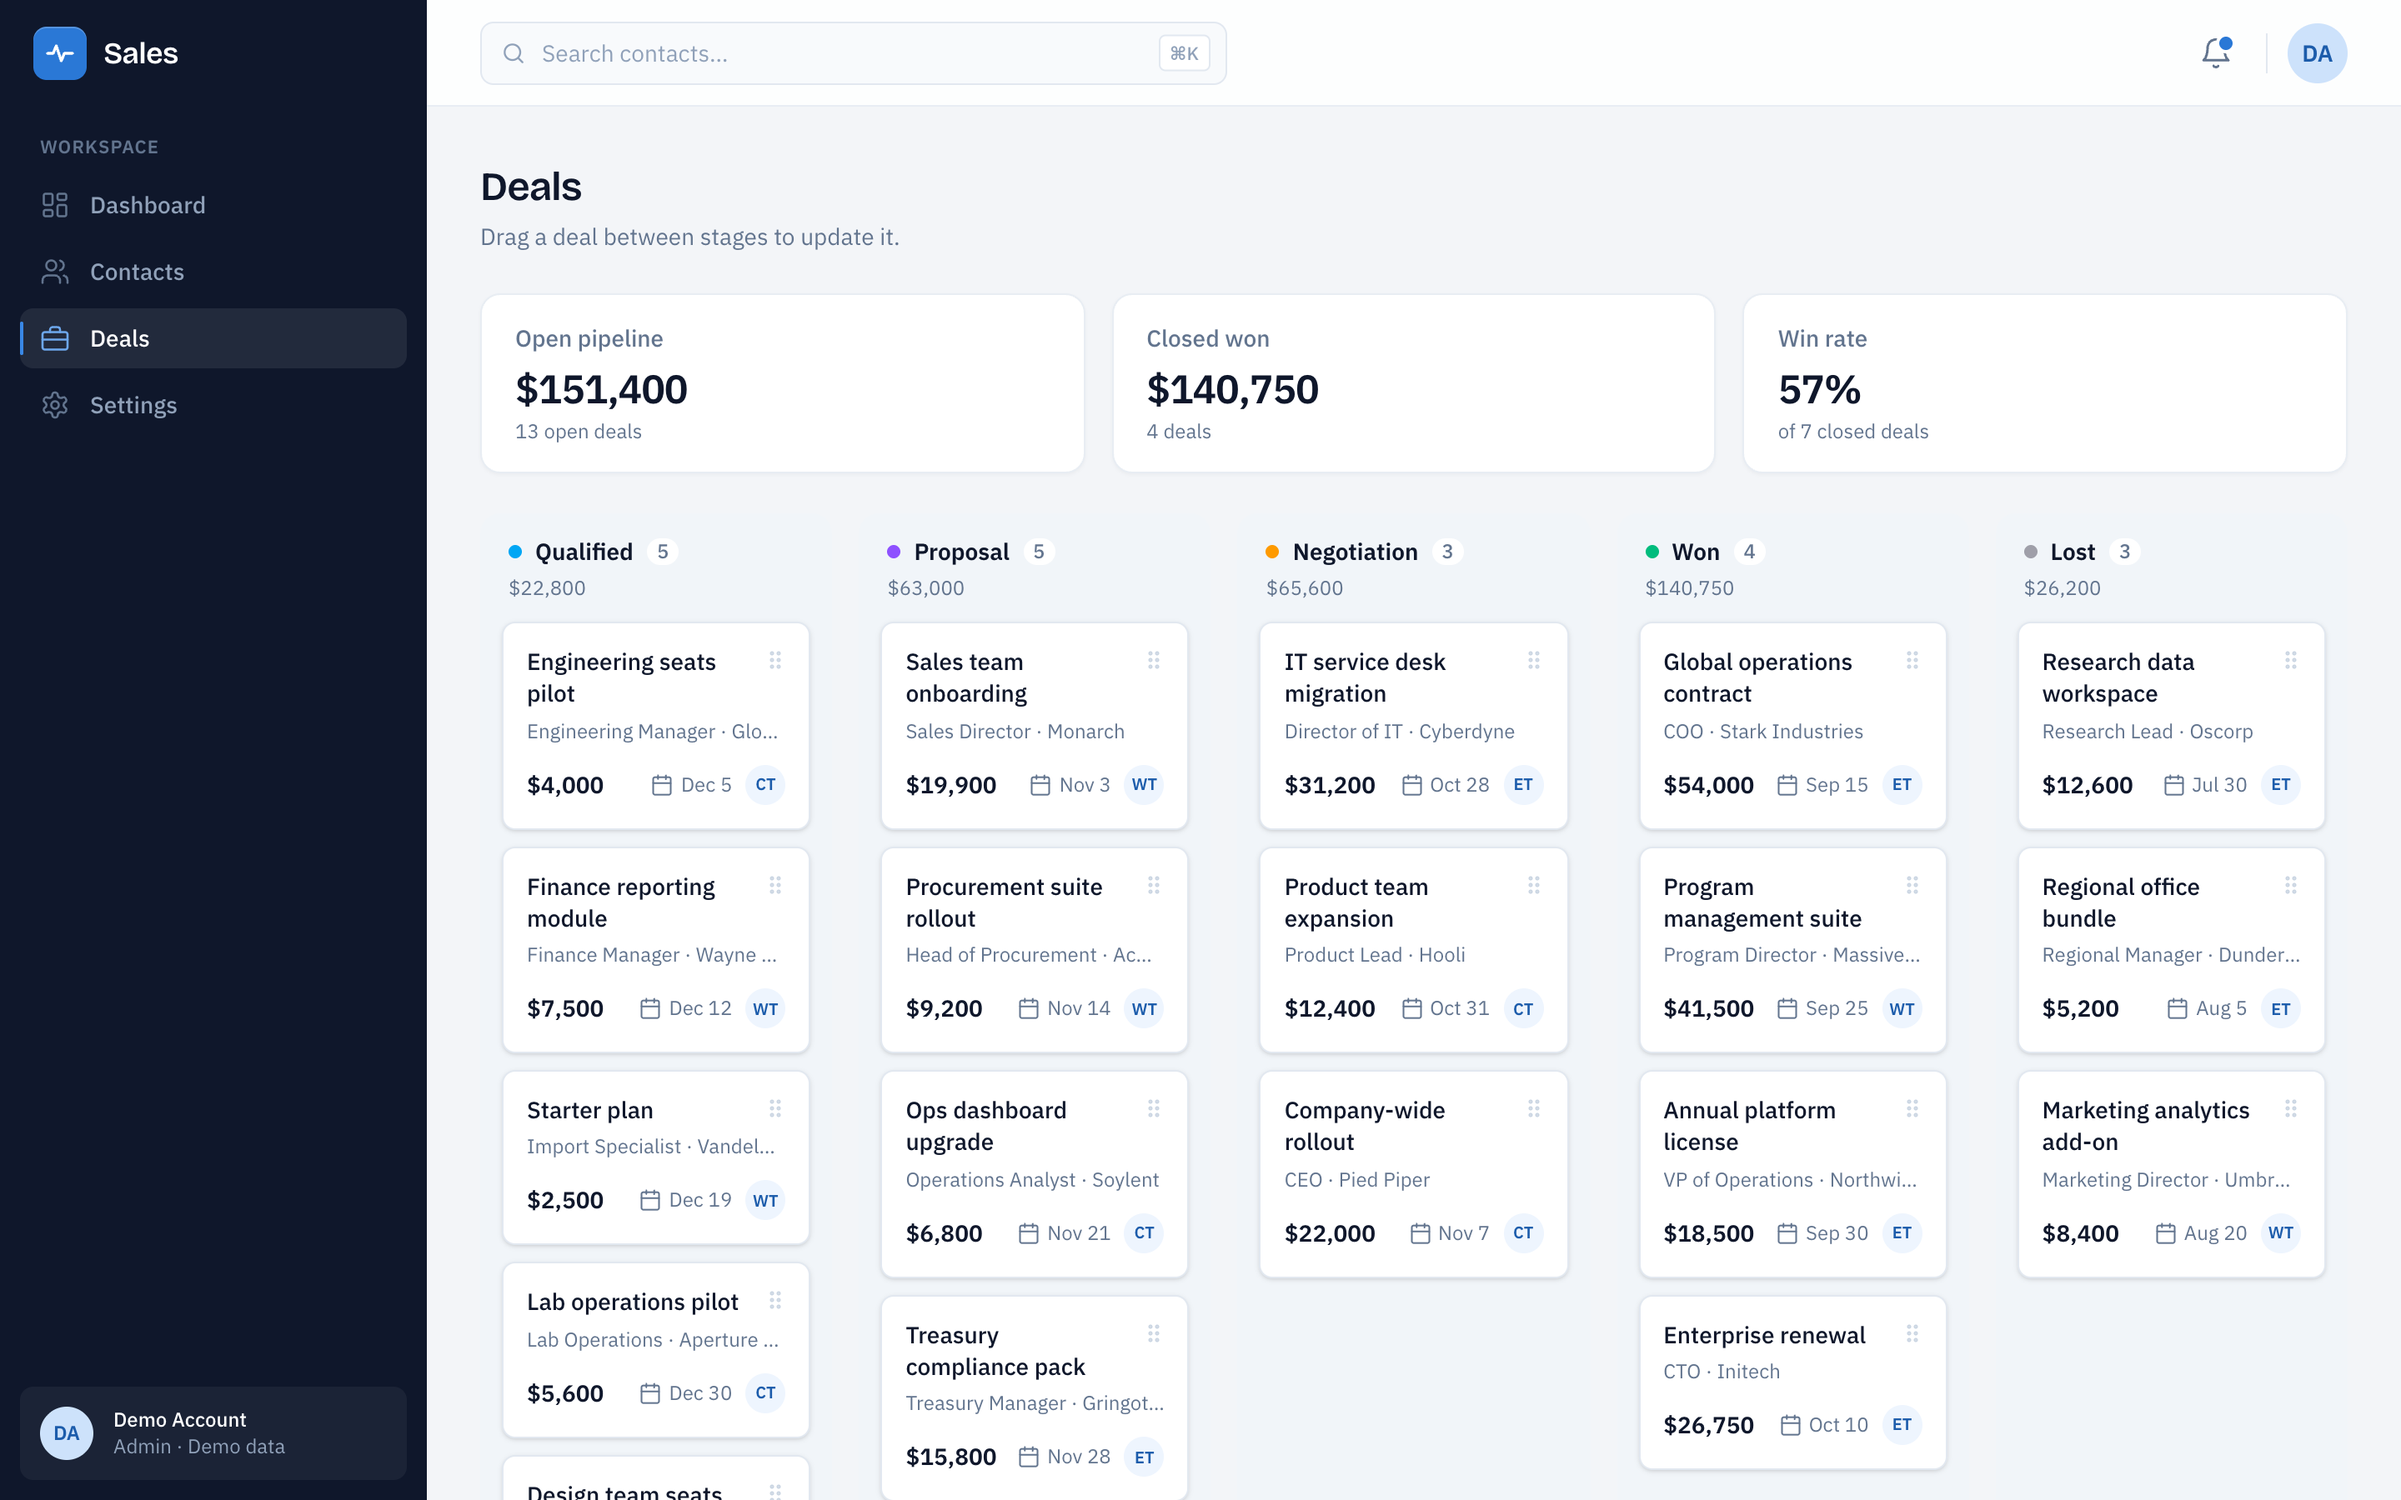
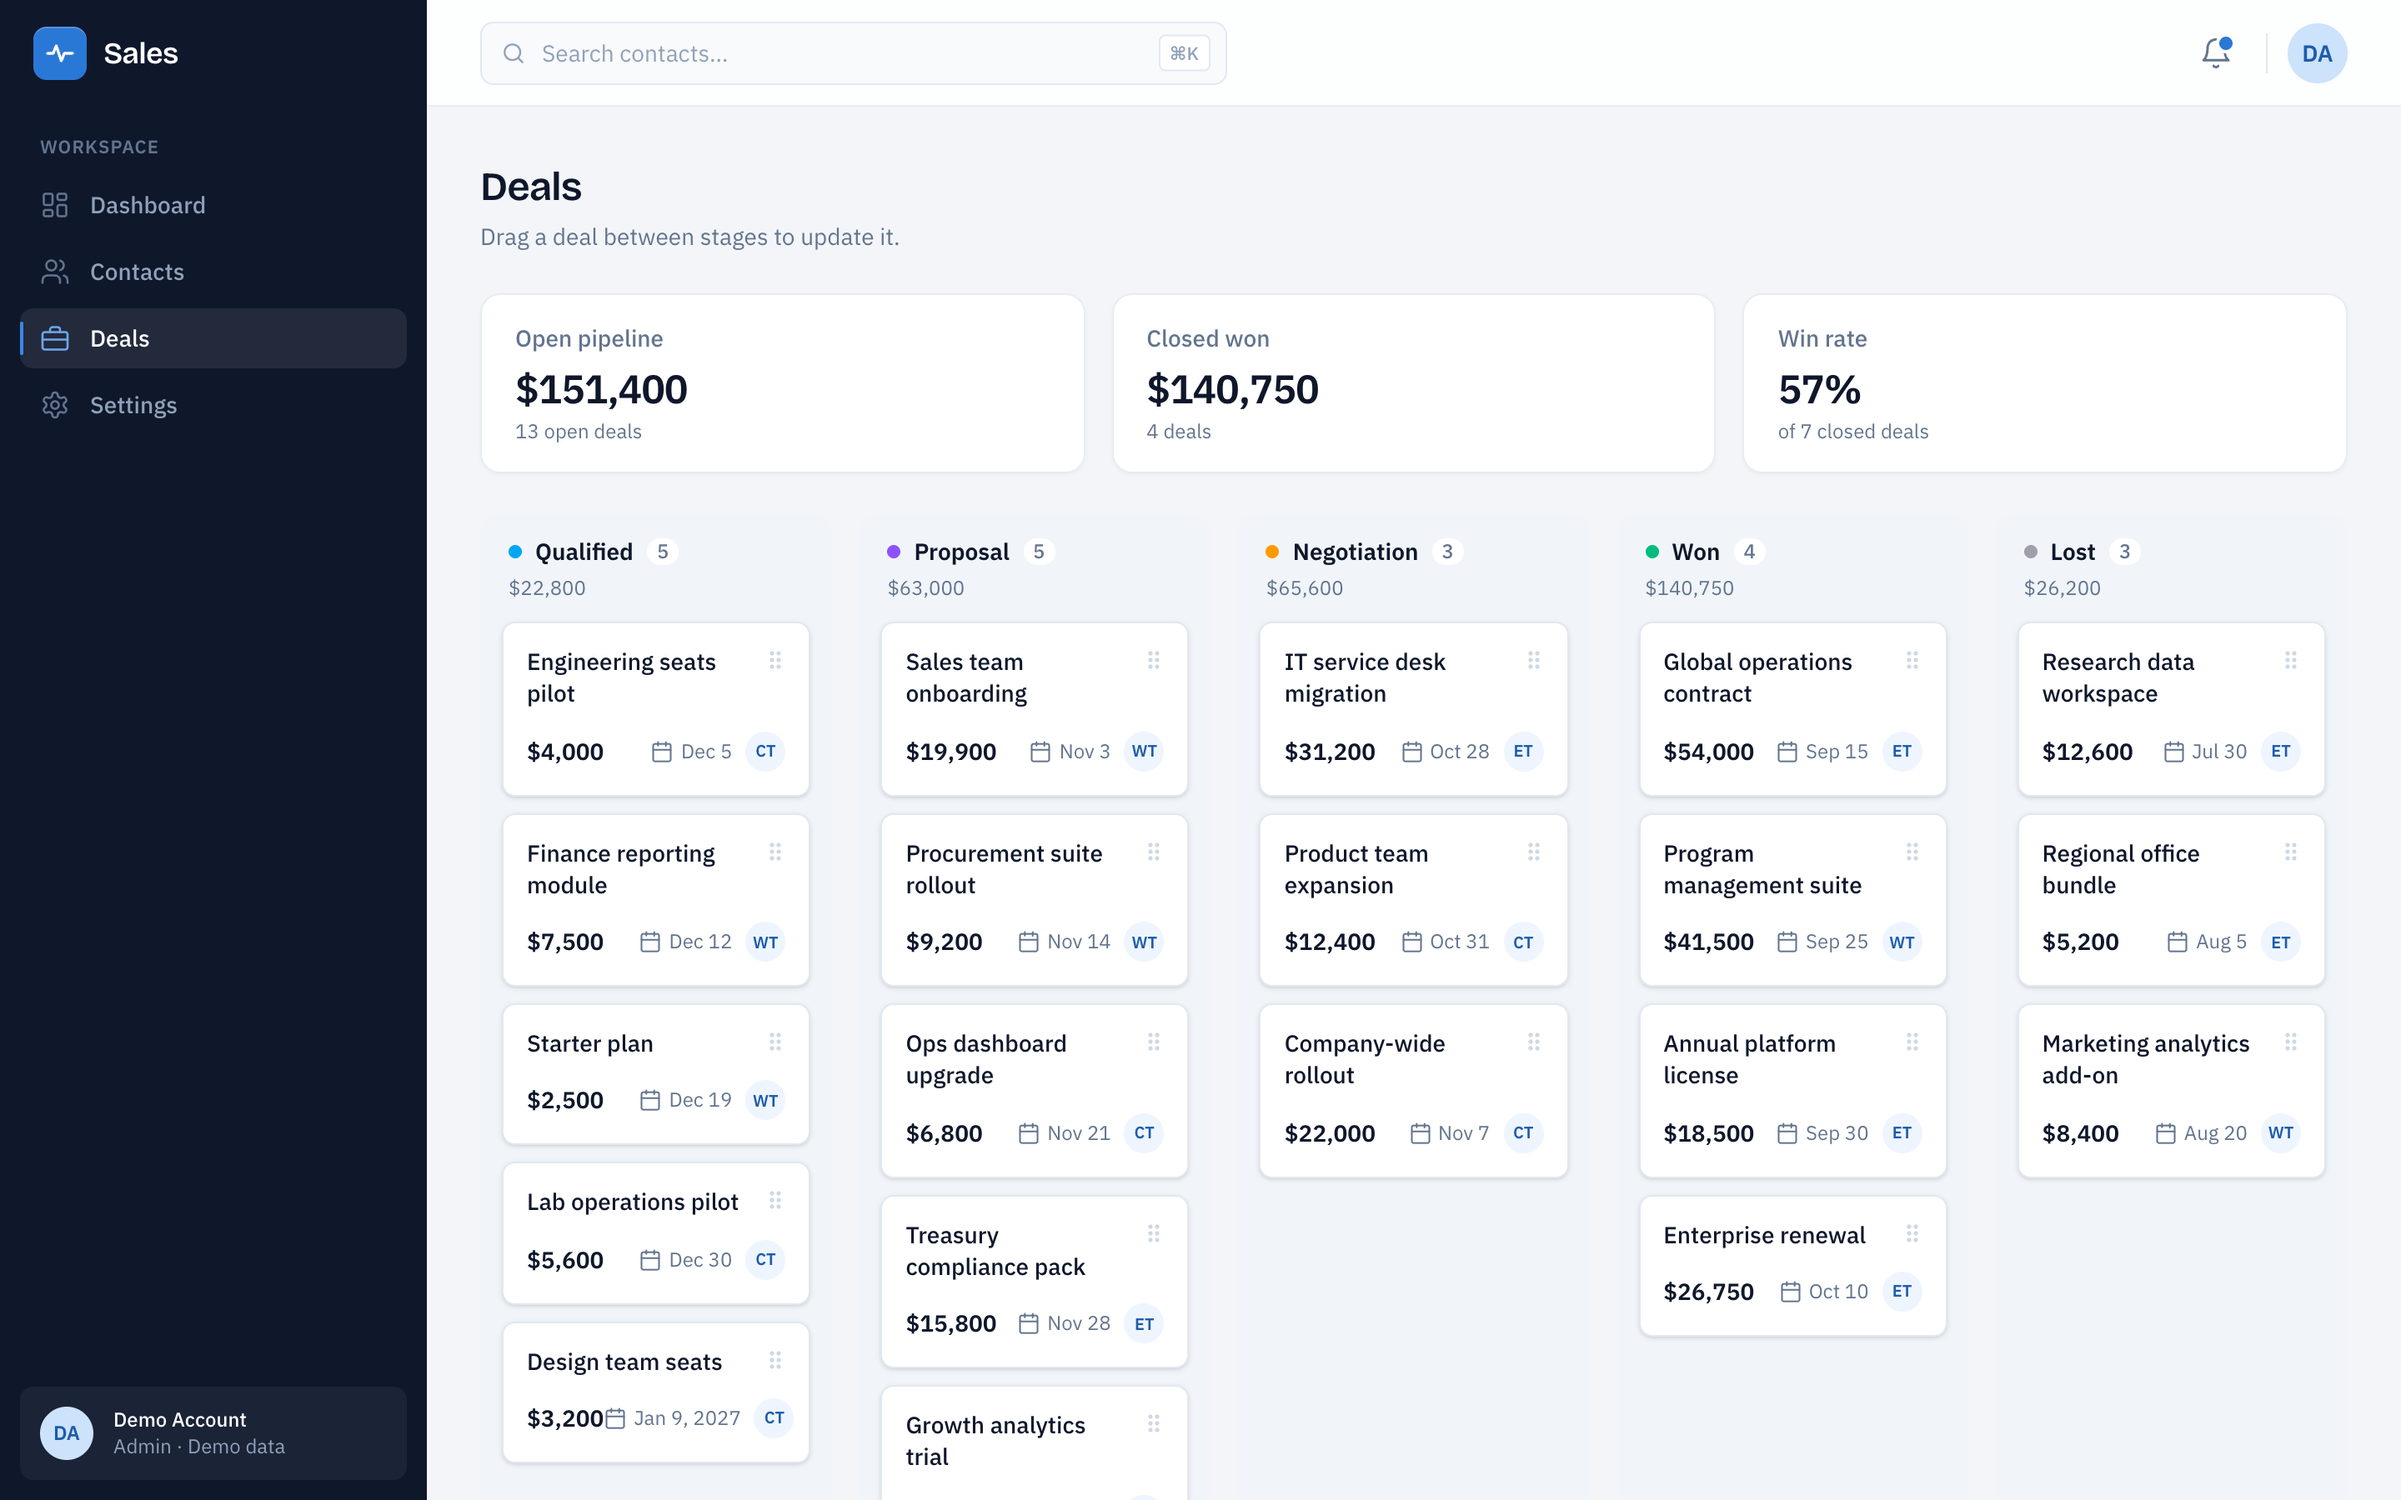
chore: simplify demo data and refresh screenshots

diff --git a/lib/mock-data.ts b/lib/mock-data.ts
@@ -30,10 +30,10 @@ export const CONTACTS: Contact[] = [
   {
     id: "c_01",
     name: "VP of Operations",
-    email: "ops@northwind.io",
+    email: "ops@harborlogistics.example",
     phone: "+1 (415) 555-0132",
     jobTitle: "VP of Operations",
-    company: "Northwind",
+    company: "Harbor Logistics",
     location: "San Francisco, CA",
     status: "customer",
     dealValue: 18500,
@@ -43,10 +43,10 @@ export const CONTACTS: Contact[] = [
   {
     id: "c_02",
     name: "Head of Procurement",
-    email: "procurement@acmecorp.com",
+    email: "procurement@summitmanufacturing.example",
     phone: "+1 (212) 555-0187",
     jobTitle: "Head of Procurement",
-    company: "Acme Corp",
+    company: "Summit Manufacturing",
     location: "New York, NY",
     status: "prospect",
     dealValue: 9200,
@@ -56,10 +56,10 @@ export const CONTACTS: Contact[] = [
   {
     id: "c_03",
     name: "Engineering Manager",
-    email: "engineering@globex.dev",
+    email: "engineering@brightlinesoftware.example",
     phone: "+1 (512) 555-0144",
     jobTitle: "Engineering Manager",
-    company: "Globex",
+    company: "Brightline Software",
     location: "Austin, TX",
     status: "lead",
     dealValue: 4000,
@@ -69,10 +69,10 @@ export const CONTACTS: Contact[] = [
   {
     id: "c_04",
     name: "CTO",
-    email: "cto@initech.co",
+    email: "cto@clearpathsystems.example",
     phone: "+1 (206) 555-0119",
     jobTitle: "CTO",
-    company: "Initech",
+    company: "Clearpath Systems",
     location: "Seattle, WA",
     status: "customer",
     dealValue: 26750,
@@ -82,10 +82,10 @@ export const CONTACTS: Contact[] = [
   {
     id: "c_05",
     name: "Marketing Director",
-    email: "marketing@umbrella.com",
+    email: "marketing@maplestreetmedia.example",
     phone: "+1 (312) 555-0176",
     jobTitle: "Marketing Director",
-    company: "Umbrella",
+    company: "Maple Street Media",
     location: "Chicago, IL",
     status: "churned",
     dealValue: 0,
@@ -95,10 +95,10 @@ export const CONTACTS: Contact[] = [
   {
     id: "c_06",
     name: "Product Lead",
-    email: "product@hooli.com",
+    email: "product@northfieldapps.example",
     phone: "+1 (650) 555-0163",
     jobTitle: "Product Lead",
-    company: "Hooli",
+    company: "Northfield Apps",
     location: "Palo Alto, CA",
     status: "prospect",
     dealValue: 12400,
@@ -108,10 +108,10 @@ export const CONTACTS: Contact[] = [
   {
     id: "c_07",
     name: "COO",
-    email: "coo@stark.industries",
+    email: "coo@pacificfreight.example",
     phone: "+1 (310) 555-0128",
     jobTitle: "COO",
-    company: "Stark Industries",
+    company: "Pacific Freight Co",
     location: "Los Angeles, CA",
     status: "customer",
     dealValue: 54000,
@@ -121,10 +121,10 @@ export const CONTACTS: Contact[] = [
   {
     id: "c_08",
     name: "Finance Manager",
-    email: "finance@wayne.enterprises",
+    email: "finance@granitefinancial.example",
     phone: "+1 (617) 555-0191",
     jobTitle: "Finance Manager",
-    company: "Wayne Enterprises",
+    company: "Granite Financial",
     location: "Boston, MA",
     status: "lead",
     dealValue: 7500,
@@ -134,10 +134,10 @@ export const CONTACTS: Contact[] = [
   {
     id: "c_09",
     name: "Operations Analyst",
-    email: "operations@soylent.co",
+    email: "operations@riversidefoods.example",
     phone: "+1 (303) 555-0155",
     jobTitle: "Operations Analyst",
-    company: "Soylent",
+    company: "Riverside Foods",
     location: "Denver, CO",
     status: "prospect",
     dealValue: 6800,
@@ -147,10 +147,10 @@ export const CONTACTS: Contact[] = [
   {
     id: "c_10",
     name: "Director of IT",
-    email: "it@cyberdyne.ai",
+    email: "it@keystonenetworks.example",
     phone: "+1 (408) 555-0137",
     jobTitle: "Director of IT",
-    company: "Cyberdyne",
+    company: "Keystone Networks",
     location: "San Jose, CA",
     status: "customer",
     dealValue: 31200,
@@ -160,10 +160,10 @@ export const CONTACTS: Contact[] = [
   {
     id: "c_11",
     name: "Import Specialist",
-    email: "imports@vandelay.com",
+    email: "imports@coastaltrading.example",
     phone: "+1 (718) 555-0102",
     jobTitle: "Import Specialist",
-    company: "Vandelay Industries",
+    company: "Coastal Trading",
     location: "Brooklyn, NY",
     status: "lead",
     dealValue: 2500,
@@ -173,10 +173,10 @@ export const CONTACTS: Contact[] = [
   {
     id: "c_12",
     name: "CEO",
-    email: "ceo@pied-piper.com",
+    email: "ceo@oakridgetech.example",
     phone: "+1 (415) 555-0148",
     jobTitle: "CEO",
-    company: "Pied Piper",
+    company: "Oakridge Tech",
     location: "San Francisco, CA",
     status: "prospect",
     dealValue: 22000,
@@ -186,10 +186,10 @@ export const CONTACTS: Contact[] = [
   {
     id: "c_13",
     name: "Research Lead",
-    email: "research@oscorp.com",
+    email: "research@lakeviewlabs.example",
     phone: "+1 (646) 555-0173",
     jobTitle: "Research Lead",
-    company: "Oscorp",
+    company: "Lakeview Labs",
     location: "New York, NY",
     status: "churned",
     dealValue: 0,
@@ -199,10 +199,10 @@ export const CONTACTS: Contact[] = [
   {
     id: "c_14",
     name: "Program Director",
-    email: "programs@massive.dynamic",
+    email: "programs@capitolconsulting.example",
     phone: "+1 (202) 555-0166",
     jobTitle: "Program Director",
-    company: "Massive Dynamic",
+    company: "Capitol Consulting",
     location: "Washington, DC",
     status: "customer",
     dealValue: 41500,
@@ -212,10 +212,10 @@ export const CONTACTS: Contact[] = [
   {
     id: "c_15",
     name: "Design Lead",
-    email: "design@tyrell.corp",
+    email: "design@cedarstudio.example",
     phone: "+1 (503) 555-0121",
     jobTitle: "Design Lead",
-    company: "Tyrell Corp",
+    company: "Cedar Design Studio",
     location: "Portland, OR",
     status: "lead",
     dealValue: 3200,
@@ -225,10 +225,10 @@ export const CONTACTS: Contact[] = [
   {
     id: "c_16",
     name: "Treasury Manager",
-    email: "treasury@gringotts.bank",
+    email: "treasury@baysidecapital.example",
     phone: "+1 (305) 555-0194",
     jobTitle: "Treasury Manager",
-    company: "Gringotts",
+    company: "Bayside Capital",
     location: "Miami, FL",
     status: "prospect",
     dealValue: 15800,
@@ -238,10 +238,10 @@ export const CONTACTS: Contact[] = [
   {
     id: "c_17",
     name: "Sales Director",
-    email: "sales@monarch.co",
+    email: "sales@meridiansupply.example",
     phone: "+1 (615) 555-0158",
     jobTitle: "Sales Director",
-    company: "Monarch",
+    company: "Meridian Supply",
     location: "Nashville, TN",
     status: "customer",
     dealValue: 19900,
@@ -251,10 +251,10 @@ export const CONTACTS: Contact[] = [
   {
     id: "c_18",
     name: "Lab Operations",
-    email: "lab@aperture.science",
+    email: "lab@desertbiotech.example",
     phone: "+1 (480) 555-0139",
     jobTitle: "Lab Operations",
-    company: "Aperture Science",
+    company: "Desert Biotech",
     location: "Phoenix, AZ",
     status: "lead",
     dealValue: 5600,
@@ -264,10 +264,10 @@ export const CONTACTS: Contact[] = [
   {
     id: "c_19",
     name: "Regional Manager",
-    email: "regional@dundermifflin.com",
+    email: "regional@valleyoffice.example",
     phone: "+1 (570) 555-0184",
     jobTitle: "Regional Manager",
-    company: "Dunder Mifflin",
+    company: "Valley Office Supply",
     location: "Scranton, PA",
     status: "churned",
     dealValue: 0,
@@ -277,10 +277,10 @@ export const CONTACTS: Contact[] = [
   {
     id: "c_20",
     name: "Head of Growth",
-    email: "growth@bluesun.io",
+    email: "growth@alpineventures.example",
     phone: "+1 (720) 555-0112",
     jobTitle: "Head of Growth",
-    company: "Blue Sun",
+    company: "Alpine Ventures",
     location: "Boulder, CO",
     status: "prospect",
     dealValue: 11300,

diff --git a/components/dashboard/ClosingSoon.tsx b/components/dashboard/ClosingSoon.tsx
@@ -38,12 +38,12 @@ export function ClosingSoon({ deals }: ClosingSoonProps) {
             return (
               <li key={deal.id} className="flex items-center gap-4 px-5 py-3">
                 <div className="min-w-0 flex-1">
-                  <p className="truncate text-sm font-medium text-slate-900">{deal.title}</p>
-                  <p className="mt-0.5 truncate text-xs text-slate-500">
+                  <p className="truncate text-sm font-medium text-slate-900">
                     <Link href={`/contacts/${deal.contact.id}`} className="hover:text-accent-600 hover:underline">
-                      {deal.contact.company}
+                      {deal.title}
                     </Link>
-                    <span aria-hidden="true"> · </span>
+                  </p>
+                  <p className="mt-0.5 truncate text-xs text-slate-500">
                     <span className="inline-flex items-center gap-1">
                       <span className={`size-1.5 rounded-full ${stage?.dotClass}`} aria-hidden="true" />
                       {stage?.label}

diff --git a/components/deals/DealCard.tsx b/components/deals/DealCard.tsx
@@ -19,17 +19,15 @@ export function DealCard({ deal, handle, className = "" }: DealCardProps) {
     >
       <div className="flex items-start justify-between gap-2">
         <h3 className="text-sm leading-snug font-medium text-slate-900">
-          {deal.title}
+          <Link
+            href={`/contacts/${deal.contact.id}`}
+            className="hover:text-accent-600 hover:underline"
+          >
+            {deal.title}
+          </Link>
         </h3>
         {handle}
       </div>
-
-      <Link
-        href={`/contacts/${deal.contact.id}`}
-        className="mt-1 block truncate text-xs text-slate-500 hover:text-accent-600 hover:underline"
-      >
-        {deal.contact.name} · {deal.contact.company}
-      </Link>
 
       <div className="mt-3 flex items-center justify-between">
         <span className="text-sm font-semibold text-slate-900 tabular-nums">
